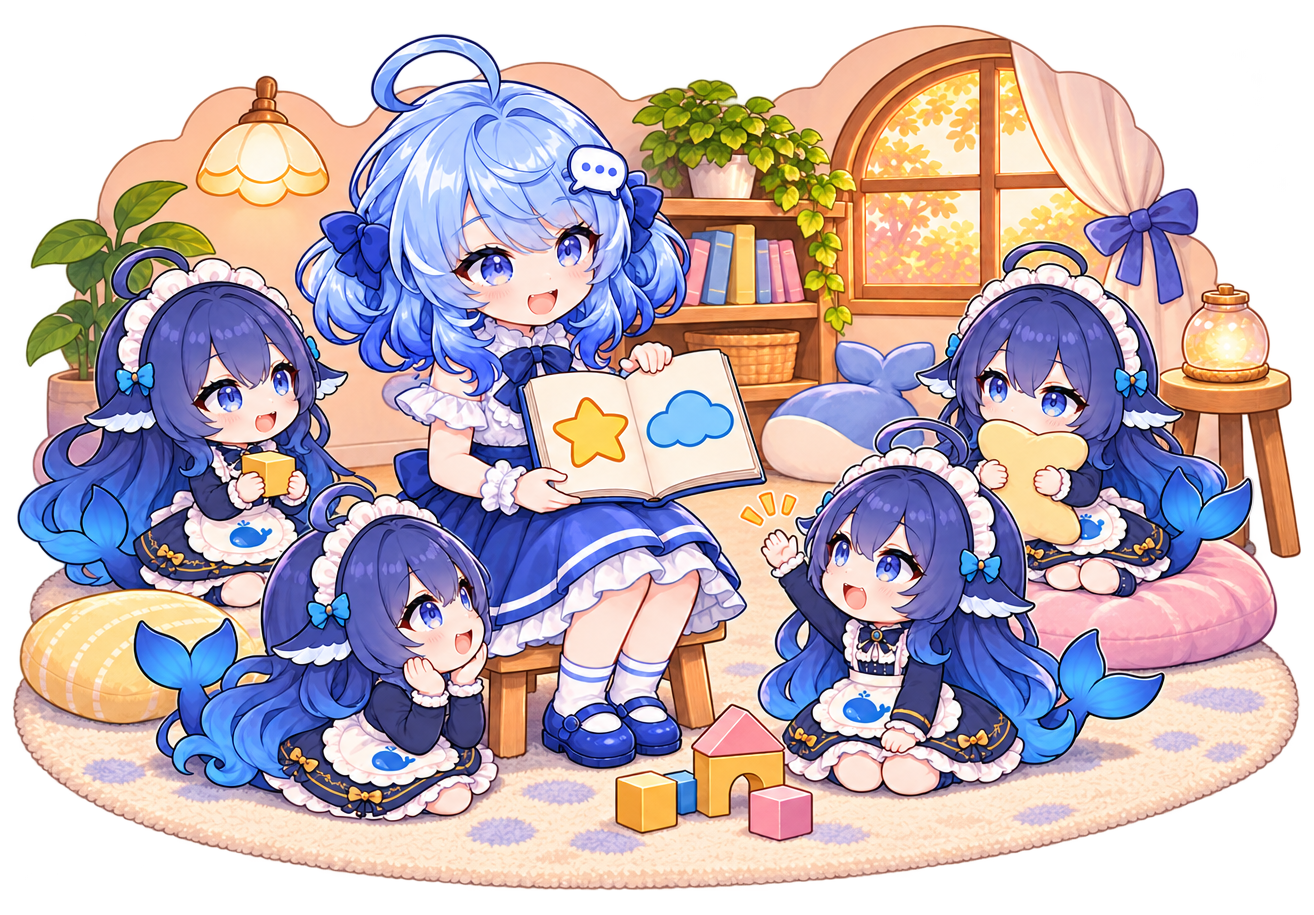
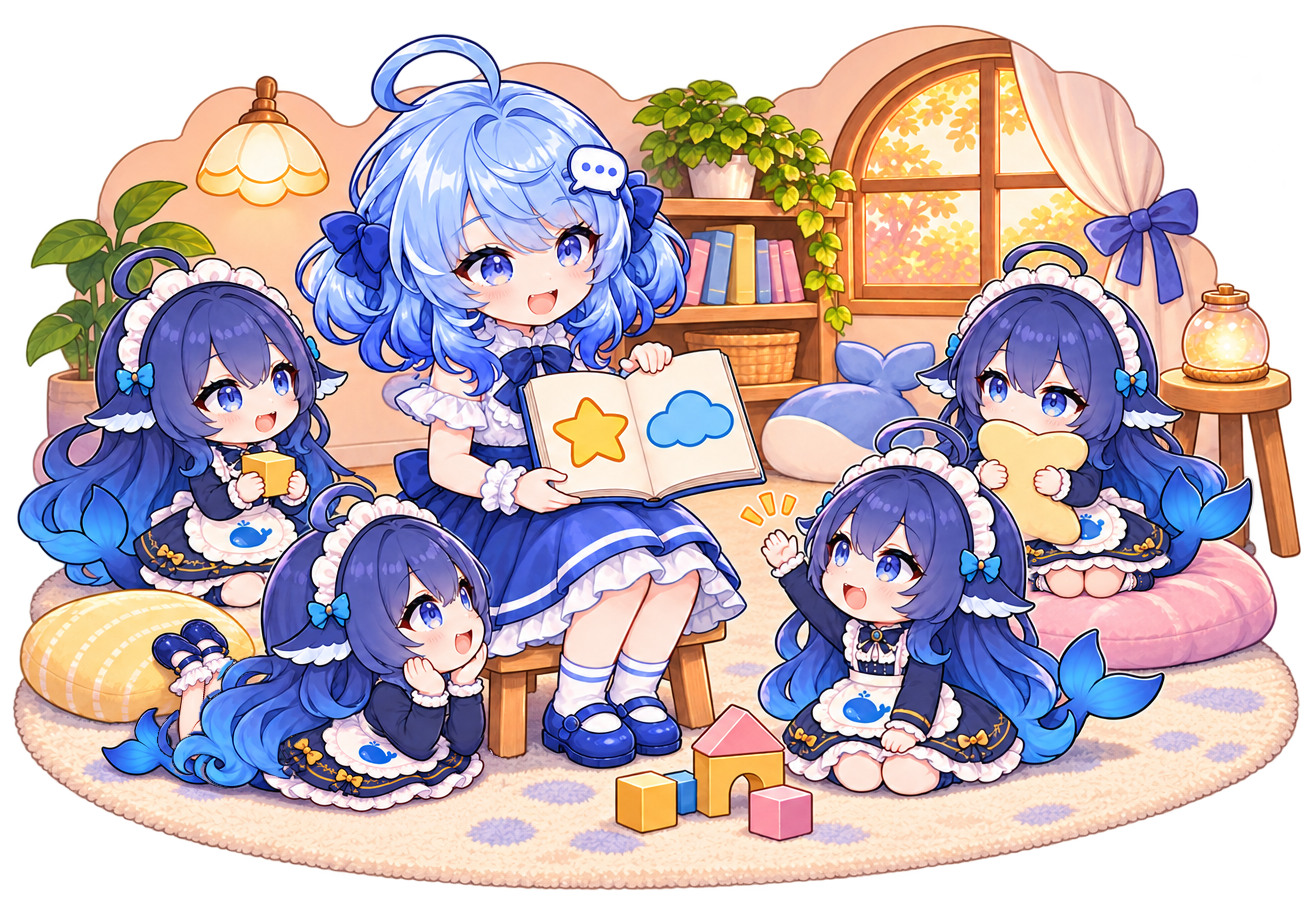
Draw headline outlines with a stroked layer behind the text and redraw two pupils' legs

Changed region(s): [[0.0624, 0.6732, 0.4056, 0.918], [0.7801, 0.5814, 0.9049, 0.6732]]

diff --git a/web/src/pages/landing/Landing.tsx b/web/src/pages/landing/Landing.tsx
@@ -110,8 +110,12 @@ export default function Landing() {
           <path className="lp-cloud-star-body" d={STAR_PATH} />
         </svg>
         <h1 className="lp-headline">
-          <span>把你的 AI 小鱼</span>
-          <span>送来托管</span>
+          <span className="lp-outline" data-text="把你的 AI 小鱼">
+            把你的 AI 小鱼
+          </span>
+          <span className="lp-outline" data-text="送来托管">
+            送来托管
+          </span>
         </h1>
         <p className="lp-subcopy">
           QQ 扫码就能接入，微信也行。自带模型 Key，
@@ -150,7 +154,9 @@ export default function Landing() {
         <div className="lp-paper lp-paper-steps" aria-hidden />
         <img className="lp-plate lp-steps-cloud" src={stepsCloud} data-plate="assets/plates/steps-cloud.png" alt="" />
         <h2 id="how" className="lp-steps-title">
-          三步开始托管
+          <span className="lp-outline" data-text="三步开始托管">
+            三步开始托管
+          </span>
         </h2>
         <span className="lp-divider" aria-hidden />
         <ol className="contents">

diff --git a/web/src/pages/landing/landing.css b/web/src/pages/landing/landing.css
@@ -193,14 +193,30 @@
   line-height: 1.08;
   letter-spacing: -0.01em;
   color: var(--color-ink);
-  -webkit-text-stroke: 0.11em #fff;
-  paint-order: stroke fill;
-  text-shadow: 0 0.05em 0 rgb(27 33 99 / 0.12);
+  --lp-outline: 0.11em;
+  --lp-outline-shadow: 0 0.05em 0 rgb(27 33 99 / 0.12);
   white-space: nowrap;
 }
 .lp-headline span:last-child {
   font-size: 1.12em;
-  padding-left: 0.05em;
+  margin-left: 0.05em;
+}
+
+/* White outline: a stroked copy of the text sits behind the fill. WebKit ignores paint-order on HTML text. */
+.lp-outline {
+  position: relative;
+  z-index: 0;
+}
+.lp-outline::before {
+  content: attr(data-text);
+  content: attr(data-text) / '';
+  position: absolute;
+  inset: 0;
+  z-index: -1;
+  color: #fff;
+  -webkit-text-stroke: var(--lp-outline) #fff;
+  text-shadow: var(--lp-outline-shadow, none);
+  pointer-events: none;
 }
 
 .lp-subcopy {
@@ -325,8 +341,7 @@
   font-size: 3cqw;
   line-height: 1;
   color: var(--color-ink);
-  -webkit-text-stroke: 0.1em #fff;
-  paint-order: stroke fill;
+  --lp-outline: 0.1em;
   white-space: nowrap;
 }
 

diff --git a/web/src/pages/landing/landing-responsive.css b/web/src/pages/landing/landing-responsive.css
@@ -136,7 +136,7 @@
     padding-block: 10px 6px;
     align-items: center;
     font-size: clamp(32px, 8.2vw, 58px);
-    -webkit-text-stroke: 0.1em #fff;
+    --lp-outline: 0.1em;
   }
   .lp-frame .lp-subcopy {
     grid-row: 3;
@@ -198,7 +198,7 @@
     margin: 128px 0 34px;
     padding: 0 6px;
     font-size: clamp(30px, 6vw, 42px);
-    -webkit-text-stroke: 0.1em #fff;
+    --lp-outline: 0.1em;
   }
   .lp-frame .lp-steps-cloud {
     grid-row: 7 / 8;
